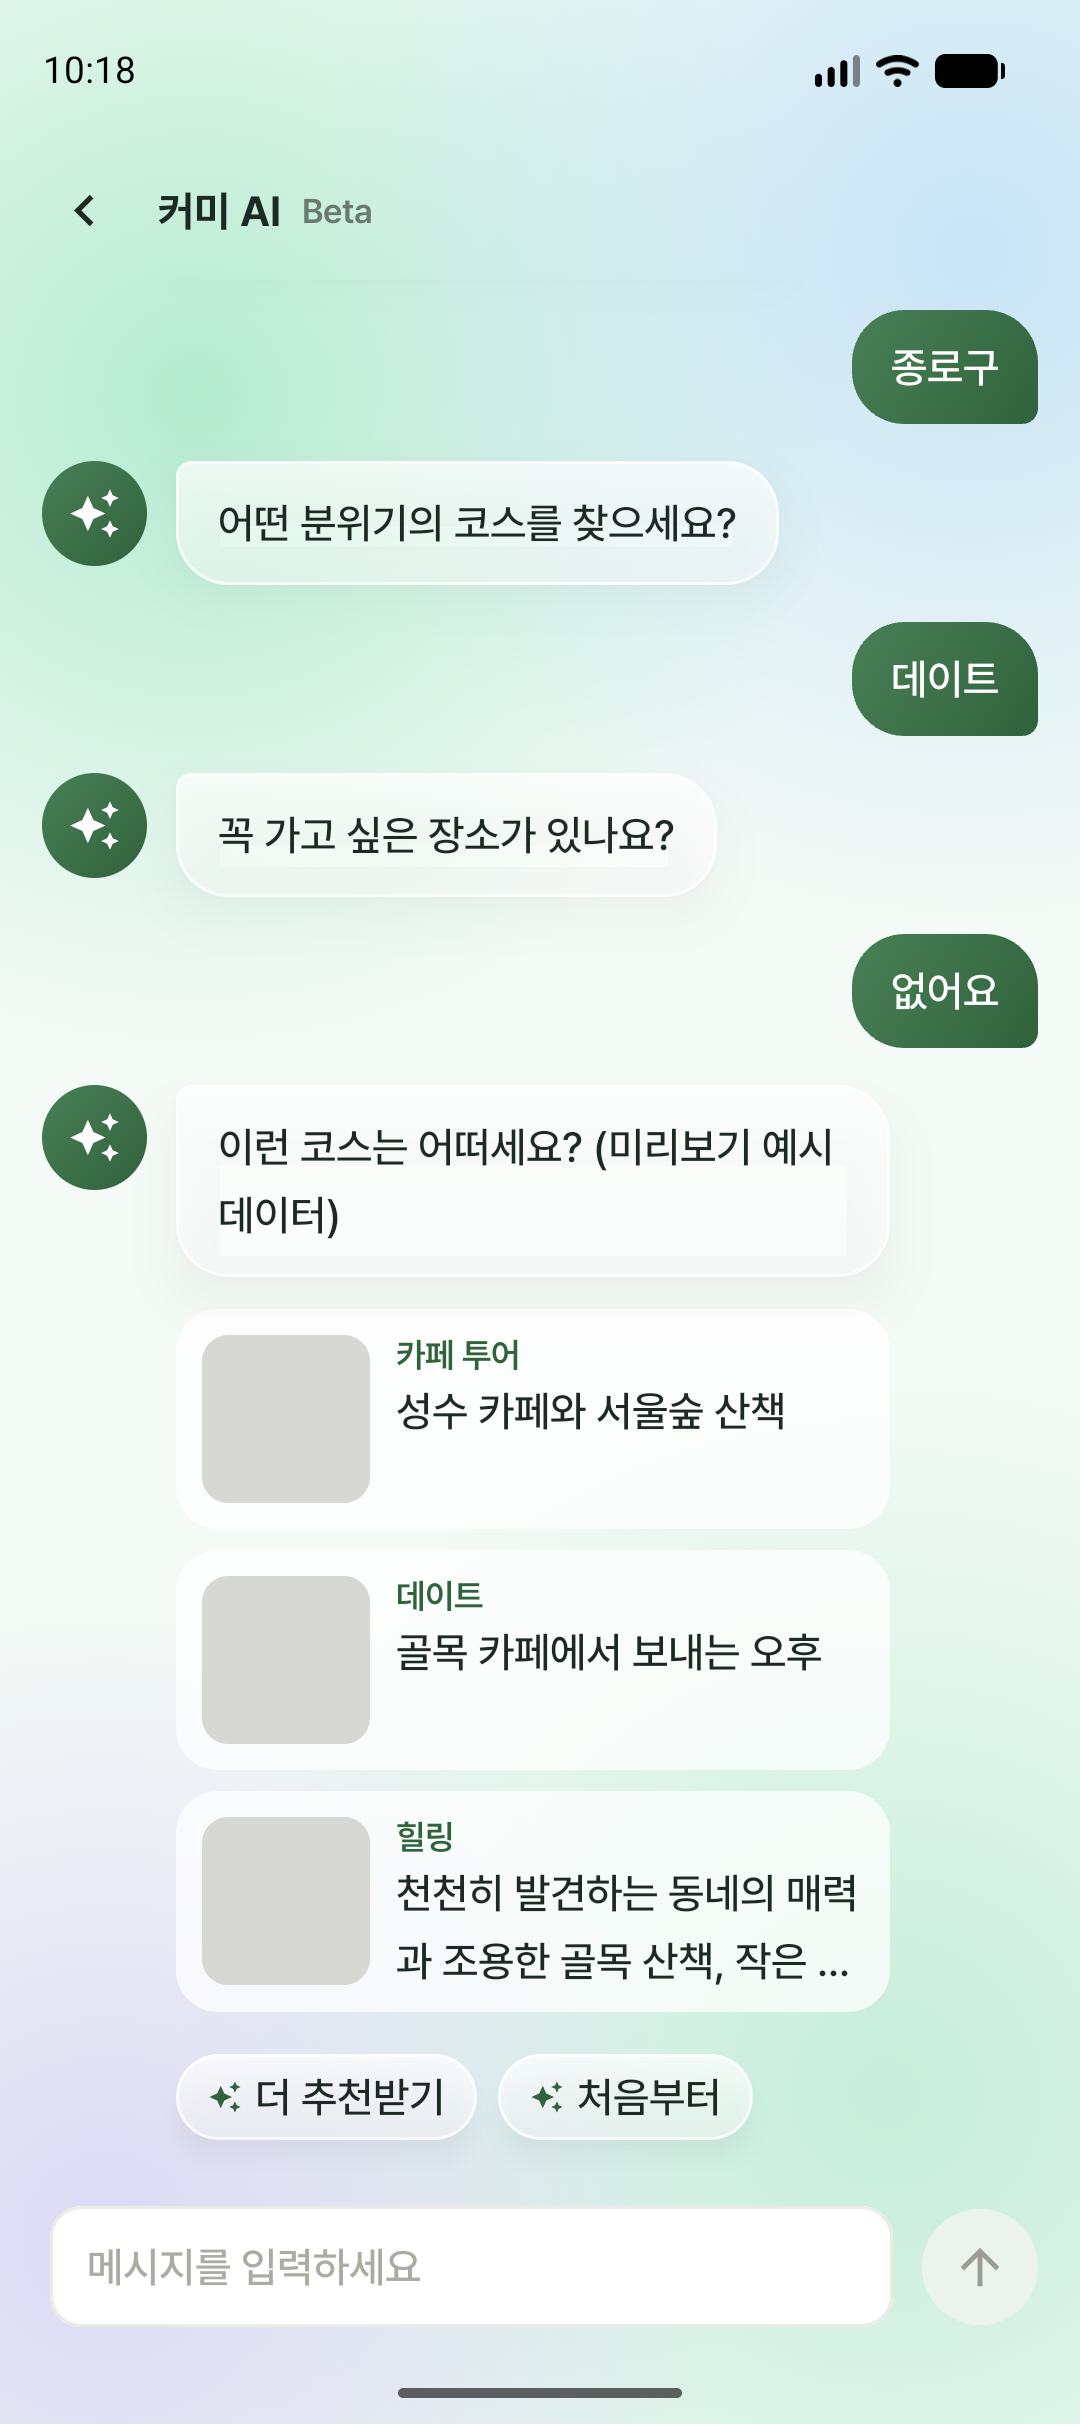
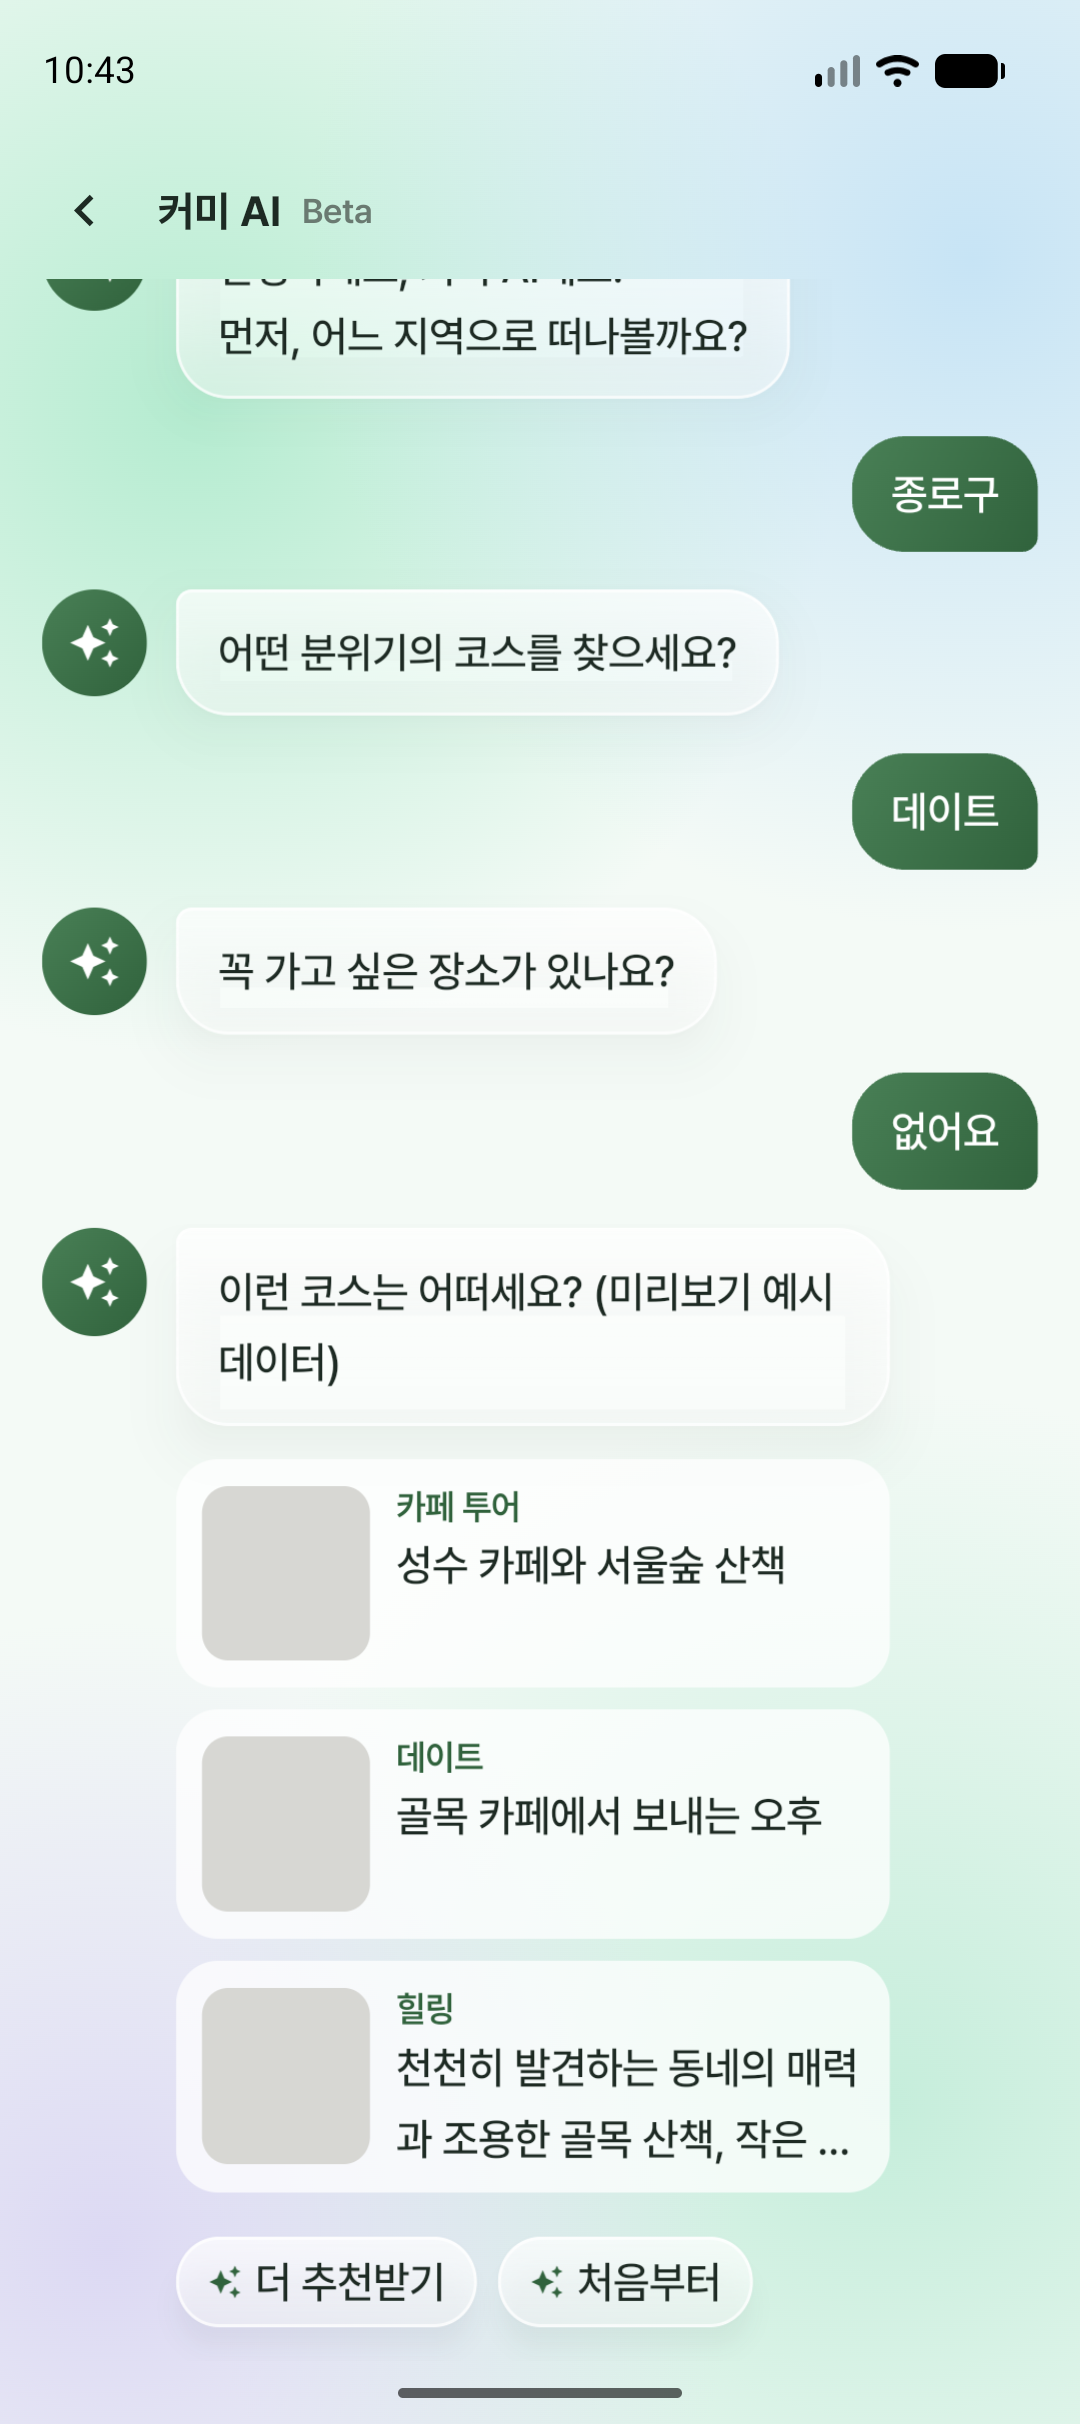
fix(main): AI 추천 결과에서 메시지 입력 영역 숨김

diff --git a/main/presentation/src/main/java/com/chillsam/courmy/main/presentation/aichat/AiCourseChatPage.kt b/main/presentation/src/main/java/com/chillsam/courmy/main/presentation/aichat/AiCourseChatPage.kt
@@ -70,6 +70,7 @@ import com.chillsam.courmy.common.presentation.component.DsTextField
 import com.chillsam.courmy.common.presentation.helper.LocalSessionUiState
 import com.chillsam.courmy.common.presentation.helper.StatusBarColor
 import com.chillsam.courmy.common.presentation.ui.theme.DesignSystemThemeImpl
+import com.chillsam.courmy.main.entity.aichat.AiChatStep
 import com.chillsam.courmy.main.entity.aichat.QuickReplyVO
 import com.chillsam.courmy.main.entity.home.HomeCourseVO
 import com.chillsam.courmy.main.presentation.component.hasLocationPermission
@@ -191,11 +192,15 @@ private fun AiCourseChatScreen(
                 }
             }
 
-            ChatInputBar(
-                enabled = state.inputEnabled,
-                placeholder = state.inputPlaceholder,
-                onSend = onSend,
-            )
+            if (state.step == AiChatStep.RESULT) {
+                Spacer(Modifier.navigationBarsPadding())
+            } else {
+                ChatInputBar(
+                    enabled = state.inputEnabled,
+                    placeholder = state.inputPlaceholder,
+                    onSend = onSend,
+                )
+            }
         }
     }
 }

diff --git a/docs/ui/2026-11-11-ai-chat/README.md b/docs/ui/2026-11-11-ai-chat/README.md
@@ -6,9 +6,10 @@
 | --- | --- | --- | --- |
 | 01-home.png | 홈 커미 AI 배너 | 2000000010 / 1.3.999 | 실제 홈, #9EBEB8 1dp 테두리와 파스텔 배경. 이후 홈 배너 스타일 변경 없음 |
 | 02-region.png | 현재 구 및 주변 구 선택 | 2000000015 / 1.3.999 | 실제 홈에서 진입, 종로구·중구·서대문구. 이후 지역 UI 변경 없음 |
-| 03-result-preview.png | 최종 결과 카드 3개 | 2000000019 / 1.3.999 | debug 예시 응답. 이미지 URL 없는 플레이스홀더, 상단 정렬·2줄 말줄임·저장 좋아요/화살표 없음 |
+| 03-result-preview.png | 최종 결과 카드 3개 | 2000000021 / 1.3.999 | debug 예시 응답. 이미지 URL 없는 플레이스홀더, 상단 정렬·2줄 말줄임·저장 좋아요/화살표 없음·입력 영역 없음 |
+| 04-restart-preview.png | 처음부터 후 REGION | 2000000021 / 1.3.999 | debug 예시 대화 초기화 후 입력창·전송 버튼 복원 |
 
-최신 검증 빌드는 2000000019 / 1.3.999다. 홈·지역은 해당 UI가 확정된 당시 빌드의 원본이다. 최종 PR 준비 시 추가 촬영을 시도했으나 에뮬레이터가 다른 화면/상태로 전환되어 최신 빌드 전체 캡처 완료로 주장하지 않는다.
+최신 검증 빌드는 2000000021 / 1.3.999다. 홈·지역은 해당 UI가 확정된 당시 빌드의 원본이다. 최종 PR 준비 시 추가 촬영을 시도했으나 에뮬레이터가 다른 화면/상태로 전환되어 최신 빌드 전체 캡처 완료로 주장하지 않는다.
 
 로그인 게이트·테마·장소·장소 후보·로딩·오류·빈 결과 화면의 최종 빌드 캡처는 미완료다. 실제 서버 대화 전체 왕복과 운영 장소 검색·Redis·버전 정책은 미검증이다. ViewModel fake repository 테스트는 상태 전이·중복 요청 방지·세션 초기화·오류 후 입력 복구 등을 검증하며 운영 성공을 보장하지 않는다.
 
@@ -25,3 +26,9 @@
 - 마지막 위치(lastLocation)와 현재점/약 1.5km 북동남서 샘플 주소로 구·군 우선, 없으면 시, 중복 없이 최대 3곳. 정확한 인접 지역/거리순 목록은 아님. 위치 신선도 검증/새 GPS 측정 없음.
 - 위치/주소가 없으면 직접 입력. 동일 구 이름의 시도 구분, 텍스트 100자 제한의 프런트 검증, 4400/4401 서버 코드 세분 처리는 후속 확인 필요.
 - 실제 서버 주소 변경은 ignored local.properties의 로컬 설정으로만 했으며 PR에 secret/설정 파일을 포함하지 않는다. 높은 테스트 버전 역시 Gradle 실행 인자만 사용했으며 저장소 기본 버전을 변경하지 않는다.
+
+## RESULT 입력 영역 숨김
+
+RESULT에서는 메시지 입력창과 전송 버튼을 렌더하지 않는다. 하단 시스템 영역 여백은 유지하고 서버 quickReplies로 재추천/처음부터를 제공한다. 재추천 전송 중에도 RESULT면 숨김 유지. 처음부터로 REGION 복귀 시 입력 영역을 다시 표시한다. PLACE_CONFIRM 등 다른 단계는 기존 input.enabled 제어를 따른다.
+
+후속 변경 검증: assembleDebug, lintDebug, main:presentation:testDebugUnitTest 통과. 실제 에뮬레이터 debug 결과의 EditText·보내기 노드 부재와 RESTART 후 두 노드 복원을 확인했다. 전체 518개 테스트는 이전 PR 검증 기록이며 이번 후속 작업은 해당 모듈 151개를 재실행했다.
